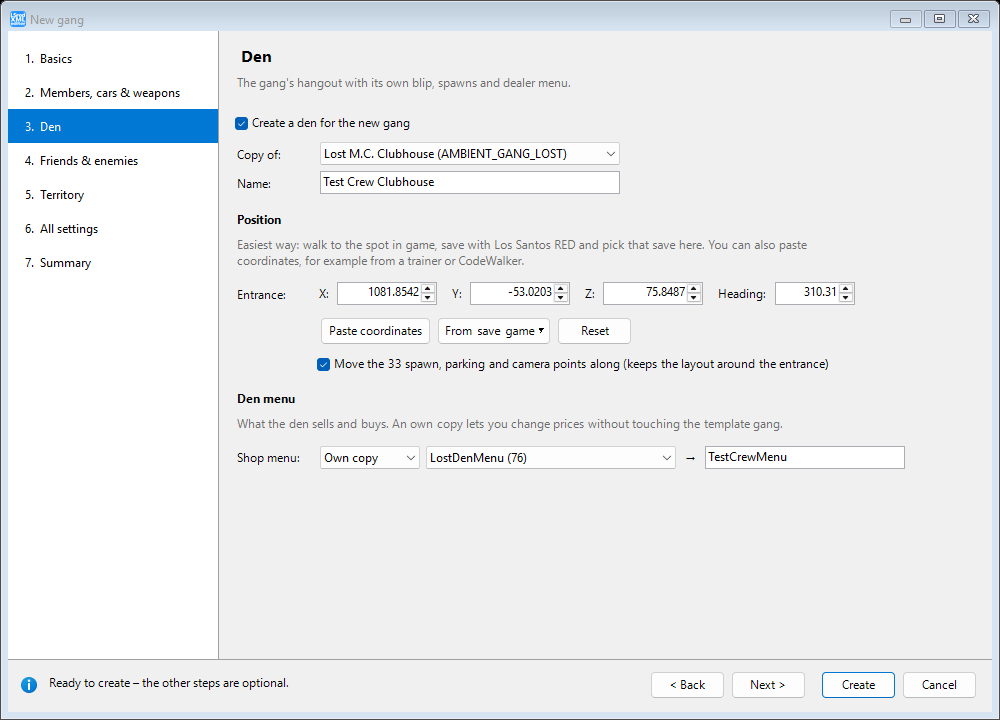
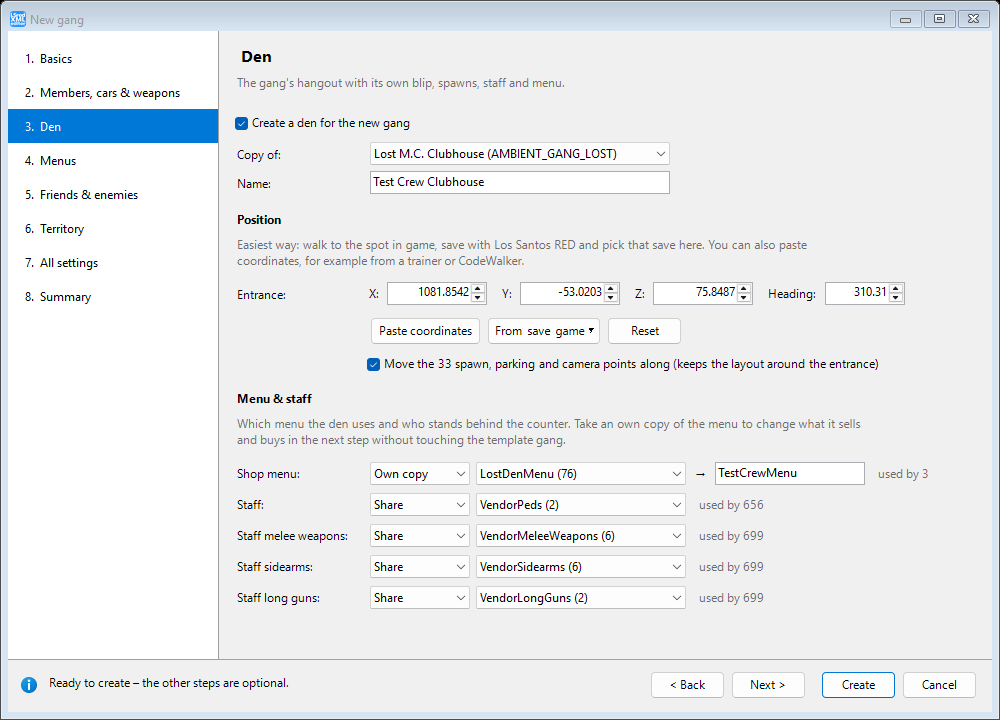
v0.4 – first official release, cleaned up readme, small creator fixes

diff --git a/src/LsrXmlEditor/Forms/MainForm.cs b/src/LsrXmlEditor/Forms/MainForm.cs
@@ -333,7 +333,7 @@ public sealed class MainForm : Form
 
         var help = new ToolStripMenuItem("&Help");
         help.DropDownItems.Add(MenuItem(new Command("&About", () => Dialogs.Info(this,
-            $"LSR XML Editor {Application.ProductVersion}\n\nEditor for the XML configuration files of Los Santos RED.\nA backup is created automatically before every save.\nThe program works completely offline.\n\nThis is a beta and has not been tested with custom content yet.\nPlease report bugs as a GitHub issue or on Discord (onlyardo).\n\nmade with ❤ from ardo"))));
+            $"LSR XML Editor {Application.ProductVersion}\n\nEditor for the XML configuration files of Los Santos RED.\nA backup is created automatically before every save.\nThe program works completely offline.\n\nNot tested with custom content (add-on vehicles, peds, weapons) yet.\nPlease report bugs as a GitHub issue or on Discord (onlyardo).\n\nmade with ❤ from ardo"))));
 
         menu.Items.AddRange([file, edit, view, tools, help]);
 

diff --git a/src/LsrXmlEditor/Forms/Creator/CreatorPage.cs b/src/LsrXmlEditor/Forms/Creator/CreatorPage.cs
@@ -86,7 +86,7 @@ internal abstract class CreatorPage : TableLayoutPanel
     protected Label AddSection(string title, string? hint = null)
     {
         _sectionFont ??= new Font(Font, FontStyle.Bold);
-        var label = new Label { Text = title, AutoSize = true, Font = _sectionFont, Margin = new Padding(0, RowCount == 0 ? 0 : 14, 0, 4) };
+        var label = new Label { Text = title, AutoSize = true, UseMnemonic = false, Font = _sectionFont, Margin = new Padding(0, RowCount == 0 ? 0 : 14, 0, 4) };
         AddSpanning(label);
         if (hint is not null)
         {
@@ -102,6 +102,7 @@ internal abstract class CreatorPage : TableLayoutPanel
         {
             Text = text,
             AutoSize = true,
+            UseMnemonic = false,
             ForeColor = SystemColors.GrayText,
             Margin = new Padding(0, 0, 0, 6),
             MaximumSize = new Size(LogicalToDeviceUnits(640), 0)

diff --git a/src/LsrXmlEditor/Forms/Creator/LinkEditor.cs b/src/LsrXmlEditor/Forms/Creator/LinkEditor.cs
@@ -29,8 +29,8 @@ internal sealed class LinkEditor : FlowLayoutPanel
         WrapContents = false;
         Margin = new Padding(0, 1, 0, 1);
         _mode.Width = LogicalToDeviceUnits(100);
-        _group.Width = LogicalToDeviceUnits(240);
-        _newId.Width = LogicalToDeviceUnits(180);
+        _group.Width = LogicalToDeviceUnits(210);
+        _newId.Width = LogicalToDeviceUnits(150);
         _mode.Items.AddRange([CopyText, ShareText]);
         _group.Items.Add(new Choice<string>(string.Empty, NoneText));
         _group.Items.AddRange([.. groups]);

diff --git a/README.md b/README.md
@@ -2,35 +2,18 @@
 
 # LSR XML Editor
 
-**Version 0.3 – beta**
+**Version 0.4**
 
-A Windows editor for the XML configuration files of Los Santos RED (GTA V mod), with an optional 3D viewer for peds, vehicles, weapons, items and animations.
+A Windows editor for the XML configuration files of Los Santos RED (GTA V mod), with creators for gangs, dens, shops and police agencies and an optional 3D viewer for peds, vehicles, weapons, items and animations.
 Runs completely offline – no auto-updater, no downloads, no telemetry.
 
-> **Beta:** this is an early release. It has only been tested with the stock GTA V content and the default LSR configs, **not with custom content** such as add-on vehicles, weapons, peds or clothing. Please back up your configs before editing.
->
 > **Tested with:** GTA V (Legacy, Steam) 1.0.3889.0 · Los Santos RED 1.0.0.562 · RAGE Plugin Hook 1.131.1424.17745
+>
+> Only tested with the stock GTA V content and the default LSR configs, **not with custom content** such as add-on vehicles, weapons, peds or clothing. Please back up your configs before editing.
 >
 > Found a bug? Please report it as a [GitHub issue](../../issues) or on Discord to **onlyardo**.
 
 ![Editor](docs/editor.png)
-
-## What's new
-
-**Creators** for gangs, gang dens, shops/locations and police agencies (*Create* in the toolbar) – a step-by-step wizard:
-
-- type a name, the ID and all other names fill in by themselves – the remaining steps are optional
-- per linked group (peds, vehicles, weapons, heads, menus) choose an own copy or share any existing group
-- every group shows who else uses it (hover "used by"), so you can see where a menu or ped group is in use
-- menus step: see and change what the player can buy and sell (prices, stock, illicit), add or remove items – on an own copy, the original stays untouched
-- shops and other places keep their owner (gang, agency, organization) or get a new one; spawns inside switch over too, and staff peds/weapons are linked like any other group
-- place dens and shops from a Los Santos RED save game or pasted coordinates; spawn, parking and camera points move and turn along
-- friends & enemies (optionally mutual), territory, jurisdiction and every other setting of the new entry
-- live checks and a summary of what lands in which file – one Ctrl+Z undoes the whole thing
-
-| | |
-| --- | --- |
-| ![Gang creator](docs/creator-gang.png) | ![Gang den step](docs/creator-den.png) |
 
 ## Features
 
@@ -40,53 +23,42 @@ Runs completely offline – no auto-updater, no downloads, no telemetry.
 - Values that refer to GTA V itself (relationship groups, model names, animations, zone codes, voices) are locked with a padlock and can be unlocked on purpose.
 - Edit several entries at once, duplicate or delete entries and list items.
 - Undo and redo the last 10 changes (Ctrl+Z / Ctrl+Y).
-- Creators for gangs, gang dens, shops/locations and police agencies based on existing entries.
 - Search across all files and jump straight to the field (Ctrl+Shift+F).
 - Automatic backup before every save, restore via *Tools → Backups*.
 - Change log: every save is recorded as a diff and can be reapplied after an LSR update (*Tools → Change log*).
 - Formatting is preserved: unchanged files are written back byte for byte.
 
-### Screenshots
+## Creators
+
+*Create* in the toolbar opens a step-by-step wizard for a new gang, gang den, shop/location or police agency, based on an existing entry:
+
+- type a name, the ID and all other names fill in by themselves – the remaining steps are optional
+- per linked group (peds, vehicles, weapons, heads, menus, staff) choose an own copy or share any existing group; hover "used by" to see who else uses it
+- menus: see and change what the player can buy and sell (prices, stock, illicit), add or remove items – on an own copy, the original stays untouched
+- places keep their owner (gang, agency, organization) or get a new one, spawns inside switch over too
+- place dens and shops from a Los Santos RED save game or pasted coordinates; spawn, parking and camera points move and turn along
+- friends & enemies (optionally mutual), territory, jurisdiction and every other setting of the new entry
+- live checks and a summary of what lands in which file – one Ctrl+Z undoes the whole thing
 
 | | |
 | --- | --- |
-| ![Multi edit](docs/multi-edit.png)<br>Editing several entries at once | ![XML view](docs/xml-view.png)<br>Raw XML of an entry |
+| ![Gang den step](docs/creator-den.png) | ![Menus step](docs/creator-menus.png) |
 
 ## 3D viewer
 
 Turn on **3D View** in the toolbar (or press Ctrl+3). Clicking an entry with a model or animation then opens the 3D view next to the property grid. It follows the selection in the list and in the property grid, so every model of a list – including the items of a shop menu – can be inspected. Turning the button off closes the view and frees its memory. Everything is read directly from your GTA V installation, nothing is modified there.
 
-### Ped viewer
-
-Outfits, save games and dispatchable peds with every clothing component (drawable/texture IDs as used by LSR), head blend, face overlays and hair colors.
-
-![Ped viewer](docs/viewer-ped.png)
-
-### Vehicle viewer
-
-Vehicles with wheels, glass, lights and paint (`RequiredPrimaryColorID` / `RequiredSecondaryColorID`, adjustable in the viewer).
-
-![Vehicle viewer](docs/viewer-vehicle.png)
-
-### Weapon viewer
-
-`weapon_*` names are resolved to their world model, including the weapon's default tint.
-
-![Weapon viewer](docs/viewer-weapon.png)
-
-### Item viewer
-
-Props and items from `PhysicalItems`, `ModItems` and interiors. Items of a shop menu are resolved through `ModItems.xml`, so clicking a menu item shows its model.
-
-![Shop menu item](docs/viewer-shop-item.png)
-
-### Animations and gestures
-
-Dances and gestures are played on the shown ped.
-
-![Animation viewer](docs/viewer-animation.gif)
+- **Peds:** outfits, save games and dispatchable peds with every clothing component (drawable/texture IDs as used by LSR), head blend, face overlays and hair colors
+- **Vehicles:** wheels, glass, lights and paint (`RequiredPrimaryColorID` / `RequiredSecondaryColorID`, adjustable in the viewer)
+- **Weapons:** `weapon_*` names are resolved to their world model, including the weapon's default tint
+- **Items:** props and items from `PhysicalItems`, `ModItems` and interiors; items of a shop menu are resolved through `ModItems.xml`
+- **Animations:** dances and gestures are played on the shown ped
 
 Hair, make-up and vehicle paint colors use approximate palettes.
+
+| | |
+| --- | --- |
+| ![Ped viewer](docs/viewer-ped.png) | ![Vehicle viewer](docs/viewer-vehicle.png) |
 
 ## Download
 
